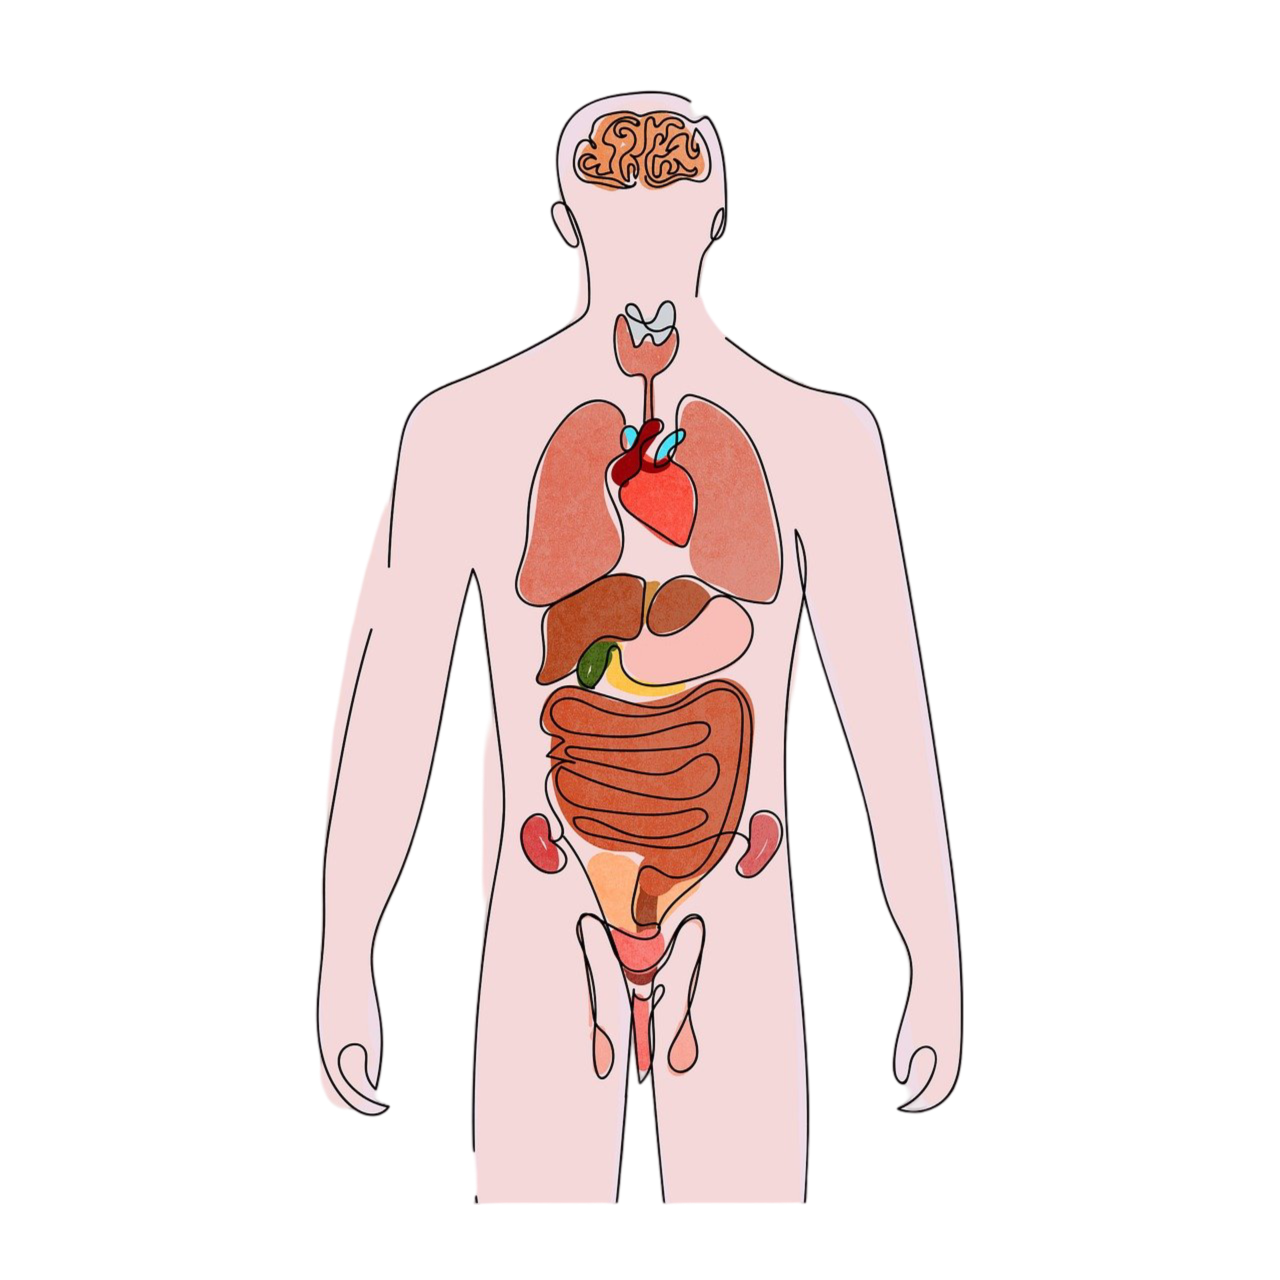
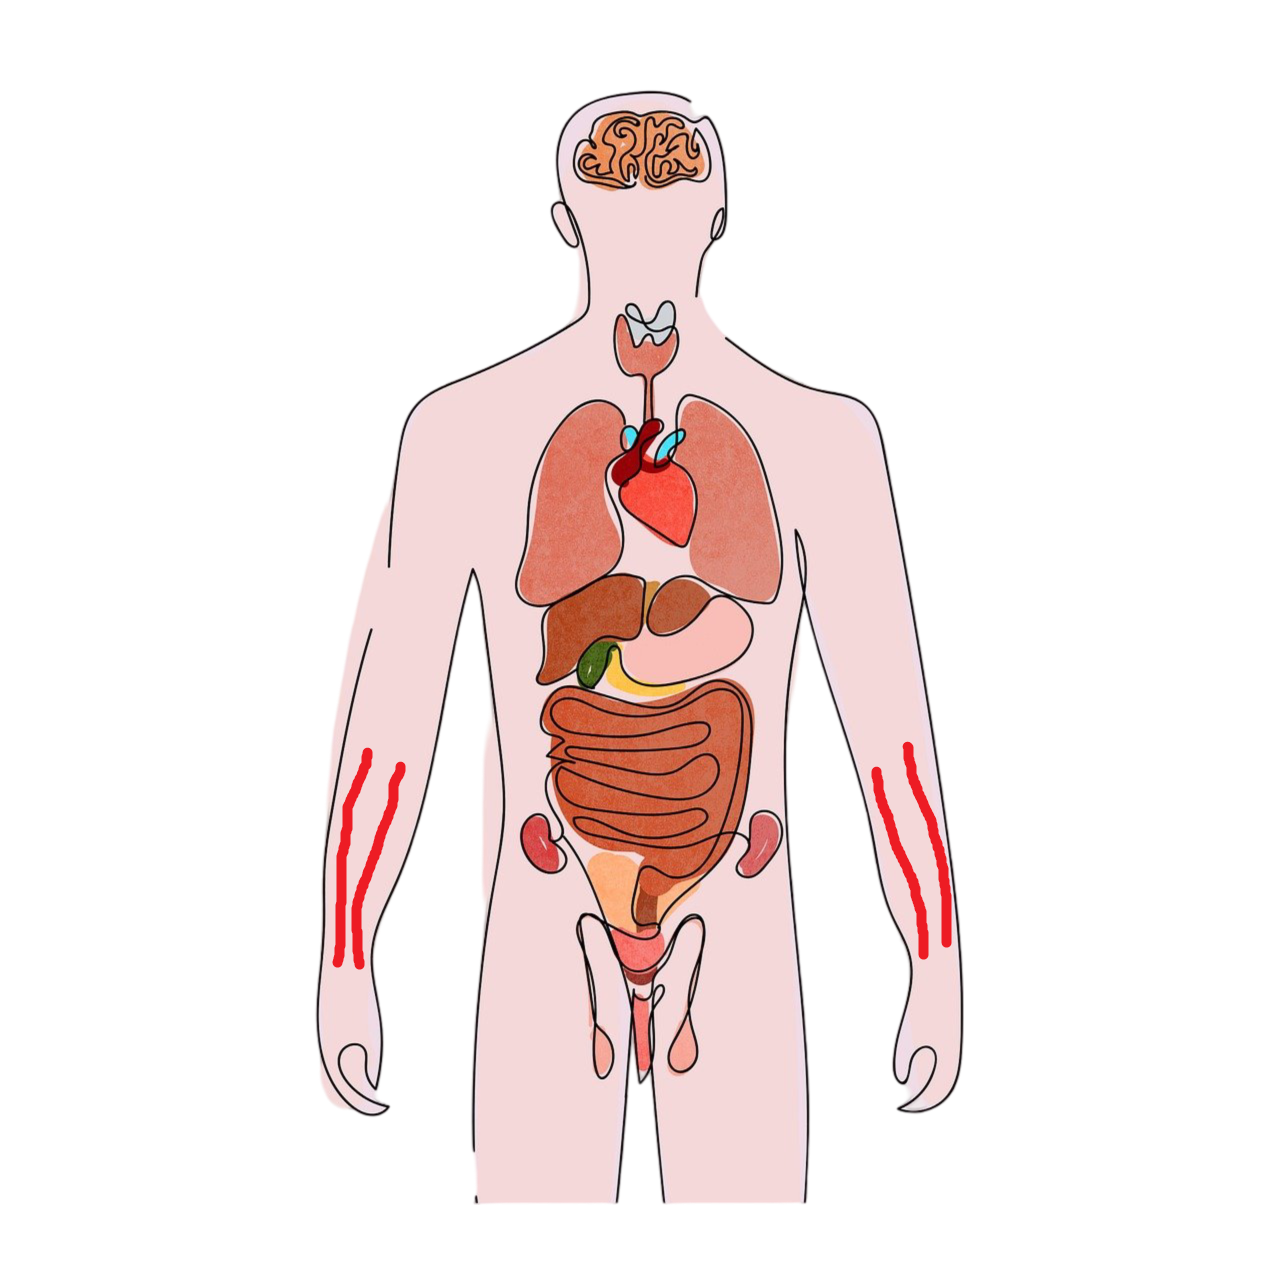
CSS update

Changed region(s): [[0.6562, 0.5625, 0.75, 0.75], [0.25, 0.5938, 0.3125, 0.75]]

diff --git a/src/main.html b/src/main.html
@@ -4,7 +4,7 @@
 <head>
     <meta charset="UTF-8">
     <meta name="viewport" content="width=device-width, initial-scale=1.0">
-    <title>Test</title>
+    <title>Page puissances 4</title>
     <link href="https://cdn.jsdelivr.net/npm/bootstrap@5.3.3/dist/css/bootstrap.min.css" rel="stylesheet"
         integrity="sha384-QWTKZyjpPEjISv5WaRU9OFeRpok6YctnYmDr5pNlyT2bRjXh0JMhjY6hW+ALEwIH" crossorigin="anonymous">
     <link rel="stylesheet" href="css.css">
@@ -44,9 +44,9 @@
                 </div>
             </nav>
 
-            <!-- Section de contenu principal -->
+            <div class="BlocContenu mx-auto d-block">
             <section class="p-3">
-                <img class="img-responsive mx-auto d-block bodyImg" src="./../Images/Corp_humain.png" alt="Corps Humain"
+                <img class="img-responsive bodyImg" src="./../Images/Corp_humain.png" alt="Corps Humain"
                     usemap="#bodymap">
 
                 <map name="bodymap">
@@ -76,26 +76,25 @@
                         shape="poly" class="organe">
                     <area target="_blank" alt="peau1" title="peau1" href="javascript:void(0)"
                         onclick="afficherTout(event,'Peau')"
-                        coords="750,844,754,819,769,811,777,817,781,826,781,840,778,851,771,861,760,873,750,877,741,875,739,864,745,837,734,837,729,847,721,859,706,876,695,886,678,899,660,924,661,933,664,942,666,946,671,940,701,914,706,922,706,937,706,956,703,972,695,991,690,1011,696,1026,697,1044,698,1060,694,1069,684,1072,672,1070,671,1059,671,1048,686,1019,689,983,694,970,701,946,702,928,695,920,686,925,678,934,673,946,669,959,659,974,656,984,658,1000,651,1055,654,1090,658,1133,663,1174,664,1203,806,1202,808,1172,809,1103,805,1046,799,982,793,900,788,852,786,822,785,779,798,637,802,599,819,651,854,760,870,819,887,901,901,933,912,967,905,1011,894,1049,897,1079,904,1085,909,1072,918,1052,929,1047,935,1057,933,1073,928,1088,917,1095,907,1103,900,1108,913,1113,929,1112,939,1107,950,1101,956,1090,959,1077,962,1062,962,1047,963,1017,961,994,961,960,953,874,928,701,901,541,880,435,875,415,862,404,824,392,780,378,745,354,724,336,706,308,698,282,686,280,679,284,669,286,663,282,656,287,655,313,663,304,669,301,674,309,674,315,674,322,677,329,677,340,674,356,664,368,654,375,651,393,650,416,661,418,674,418,681,399,687,392,712,399,728,409,746,426,755,444,766,475,778,518,782,563,774,597,765,601,743,598,730,593,744,607,753,622,746,646,733,660,726,667,723,677,738,688,749,706,750,733,748,760,746,790,740,813,736,827,740,835,750,829"
+                        coords="202,432,250,449,274,335,280,353,286,395,291,432,293,461,293,490,287,529,279,579,276,654,277,703,358,707,368,601,354,545,343,539,341,559,350,596,358,613,356,628,350,630,346,615,348,583,334,543,350,537,331,493,331,506,326,513,312,508,305,492,306,483,314,478,321,477,318,464,319,454,325,448,319,444,324,434,318,432,315,420,313,403,313,395,317,385,314,372,316,356,302,351,302,337,309,304,312,275,337,236,350,233,362,238,365,246,372,246,374,224,363,220,358,204,358,187,367,177,385,174,394,178,398,190,398,203,395,214,385,221,381,231,383,238,385,244,393,244,400,234,414,235,424,242,435,249,443,264,449,281,453,301,459,322,456,343,454,356,436,353,438,361,442,373,438,382,432,389,422,393,432,399,440,417,438,436,441,449,437,462,435,473,449,476,455,480,458,490,455,499,449,508,440,514,432,515,415,513,402,523,386,540,388,552,403,537,413,545,409,574,405,584,401,590,389,563,384,577,381,603,388,704,470,703,470,628,461,502,460,394,466,316,500,448,544,422,510,245,479,230,429,202,410,178,407,159,411,142,423,124,423,108,337,124,345,164,346,180,333,192,299,210,268,223,243,235,234,262,228,325,218,368"
                         shape="poly" class="organe">
-                    <area target="_blank" alt="peau2" title="peau2" href="javascript:void(0)"
-                        onclick="afficherTout(event,'Peau')"
-                        coords="698,279,702,256,711,245,719,239,725,232,727,213,724,195,724,172,720,150,712,131,706,115,686,98,669,92,645,94,621,96,601,100,577,112,557,142,556,170,560,202,551,207,551,220,560,236,571,244,577,247,584,245,585,256,590,281,589,304,580,314,571,325,559,333,545,340,507,362,482,372,454,384,427,397,405,425,394,480,388,498,368,567,352,634,340,676,339,719,327,778,325,906,316,1010,322,1081,333,1105,364,1119,381,1118,392,1108,388,1106,365,1098,352,1087,342,1071,340,1051,356,1044,365,1044,367,1053,367,1066,367,1074,372,1085,377,1091,383,1049,377,997,374,950,387,902,409,853,424,801,460,616,473,570,483,611,495,707,488,737,483,787,482,821,482,853,488,917,481,954,472,1098,478,1204,618,1202,626,1113,628,1065,633,1021,621,968,612,948,608,924,594,919,586,917,583,930,586,946,589,963,594,978,596,993,592,1020,599,1025,609,1035,615,1057,611,1069,603,1076,594,1068,592,1047,592,1033,592,1008,591,997,588,984,586,971,582,954,576,932,579,921,590,911,600,919,606,915,600,905,593,891,585,876,581,862,573,847,563,837,557,841,562,846,567,859,563,867,556,871,547,872,536,865,520,844,521,825,530,816,542,812,548,819,550,828,548,837,560,841,563,827,558,816,550,808,546,794,542,779,548,769,551,756,544,756,549,746,550,734,542,723,541,707,550,696,558,686,555,678,538,681,547,651,545,641,542,624,549,607,539,604,522,599,514,577,528,541,527,512,537,468,557,432,579,406,598,399,610,401,618,407,624,416,628,420,640,416,644,401,644,386,642,375,628,374,620,367,616,354,612,340,615,321,619,315,633,303,638,308,642,322,651,317,652,305,653,291,662,278,668,281,676,283"
-                        shape="poly" class="organe">
-                    <area target="_blank" alt="peau3" title="peau3" href="javascript:void(0)"
-                        onclick="afficherTout(event,'Peau')"
-                        coords="623,500,634,516,648,527,658,534,672,543,684,548,688,559,685,574,672,576,659,579,652,579,642,576,629,574,620,571,609,569,619,561,623,548,624,535,623,524,618,514,616,506"
-                        shape="poly" class="organe">
+                    <area target="_blank" alt="Sang1" title="Sang1" href="javascript:void(0)"
+                        onclick="afficherTout(event,'Sang')" coords="200,432,246,450,220,576,191,567" shape="poly"
+                        class="organe">
+                    <area target="_blank" alt="Sang2" title="Sang2" href="javascript:void(0)"
+                        onclick="afficherTout(event,'Sang')" coords="503,451,542,430,559,553,537,565" shape="poly"
+                        class="organe">
                 </map>
             </section>
 
-            <section>
-                <h2 id="titre"></h2>
+            <section class="vignette">
+                <h3 id="titre"></h3>
                 <p id="texte"></p>
                 <p id="texteAccessible"></p>
                 <img id="image" src="" alt="Image de la vignette" class="img-fluid">
                 <a id="lien" href="#" target="_blank"></a>
             </section>
+            </div>
             <script src="./vignette/vignette.js">
             </script>
             <footer>

diff --git a/src/vignette/vignette.js b/src/vignette/vignette.js
@@ -44,58 +44,66 @@ const vignettes = {
         "Description",
         null
     ),
-    "Coeur":new Vignette(
+    "Coeur": new Vignette(
         "L’océan :  Notre source d'Oxygène ",
         "Le cœur permet de réoxygéner tout notre système sanguin à chaque battement tout comme les phytoplanctons (micro-organismes marins) , contenue dans l’océan, qui rejettent entre 50% à 80% d'oxygène dans notre atmosphère. De plus, l'océan absorbe un quart du CO2 rejeté par l’homme. ",
         "Texte plus simple",
         "./../Images/Coeur.png",
         "Description",
         null
-)
+    ),
+    "Sang": new Vignette(
+        "Océan et Sang : La Circulation des Fluides au Service de la Température Planétaire",
+        "L’océan permet de de stocker la chaleur, régulant la température mondiale. Cela s'explique par les courants océaniques qui distribuent l’excès de chaleur reçu aux tropiques vers les plus hautes latitudes. D’une manière générale, les gaz sont plus solubles dans les eaux froides que chaudes. Par conséquent, les eaux de surfaces des hautes latitudes sont plus riches en gaz que celles des basses latitudes. Le renouvellement des eaux de surface par la circulation océanique jouent par conséquent un rôle très important dans le cycle du gaz carbonique et du carbone, en entraînant les eaux enrichies des hautes latitudes vers l’océan profond.",
+        "Texte plus simple",
+        "./../Images/courant_océanique_températue.webp",
+        "Description",
+        "https://ocean-climate.org/presentation-des-fiches-scientifiques-ocean-et-climat/locean-reservoir-de-chaleur/"
+    )
 };
 
 // Stockage de l'instance dans l'objet global
 window.vignettes = vignettes;
 
 // Fonction pour afficher le titre
-function afficherTout(event,titre) {
+function afficherTout(event, titre) {
     event.preventDefault();
     const vignette = window.vignettes[titre];
     console.log(vignette);
-    if(vignette){
+    if (vignette) {
         document.getElementById('titre').textContent = vignette.titre;
         const texte = document.getElementById('texte').textContent = vignette.texte;
         const button = document.createElement('button');
-        button.id='toogleTexteAccessible';
+        button.id = 'toogleTexteAccessible';
         button.textContent = 'Afficher texte accessible';
-        button.addEventListener('click',function(){
-            const texteAccessible=document.getElementById('texteAccessible').textContent = vignette.texte;
-            if(texteAccessible.style.display==='none'){
-                texteAccessible.style.display='block';
-                texte.style.display='none';
+        button.addEventListener('click', function () {
+            const texteAccessible = document.getElementById('texteAccessible').textContent = vignette.texte;
+            if (texteAccessible.style.display === 'none') {
+                texteAccessible.style.display = 'block';
+                texte.style.display = 'none';
             }
-            else{
-                texteAccessible.style.display='none';
-                texte.style.display='block';
+            else {
+                texteAccessible.style.display = 'none';
+                texte.style.display = 'block';
             }
         })
         const img = document.getElementById('image');
-        if(vignette.image){
+        if (vignette.image) {
             img.src = vignette.image;
             img.alt = vignette.descriptionImage;
             img.style.display = 'block';
         }
-        else{
+        else {
             img.style.display = 'none';
         }
 
         const lien = document.getElementById('lien');
-        if(vignette.lien){
+        if (vignette.lien) {
             lien.href = vignette.lien;
-            lien.style.display='inline';
+            lien.style.display = 'inline';
         }
-        else{
-            lien.style.display='none';
+        else {
+            lien.style.display = 'none';
         }
 
     }

diff --git a/src/css.css b/src/css.css
@@ -7,6 +7,7 @@
 body, html {
     height: 100%;
     margin: 0;
+    background-color: #FFFFFF;
 }
 
 footer{
@@ -67,4 +68,18 @@ h1 {
 
 .organe:hover{
     filter: brightness(50%);
+}
+
+#image{
+    display: none;
+    width: 300px;
+    height: auto;
+}
+
+.BlocContenu{
+    display:flex;
+}
+
+.vignette{
+    text-align: justify;
 }
